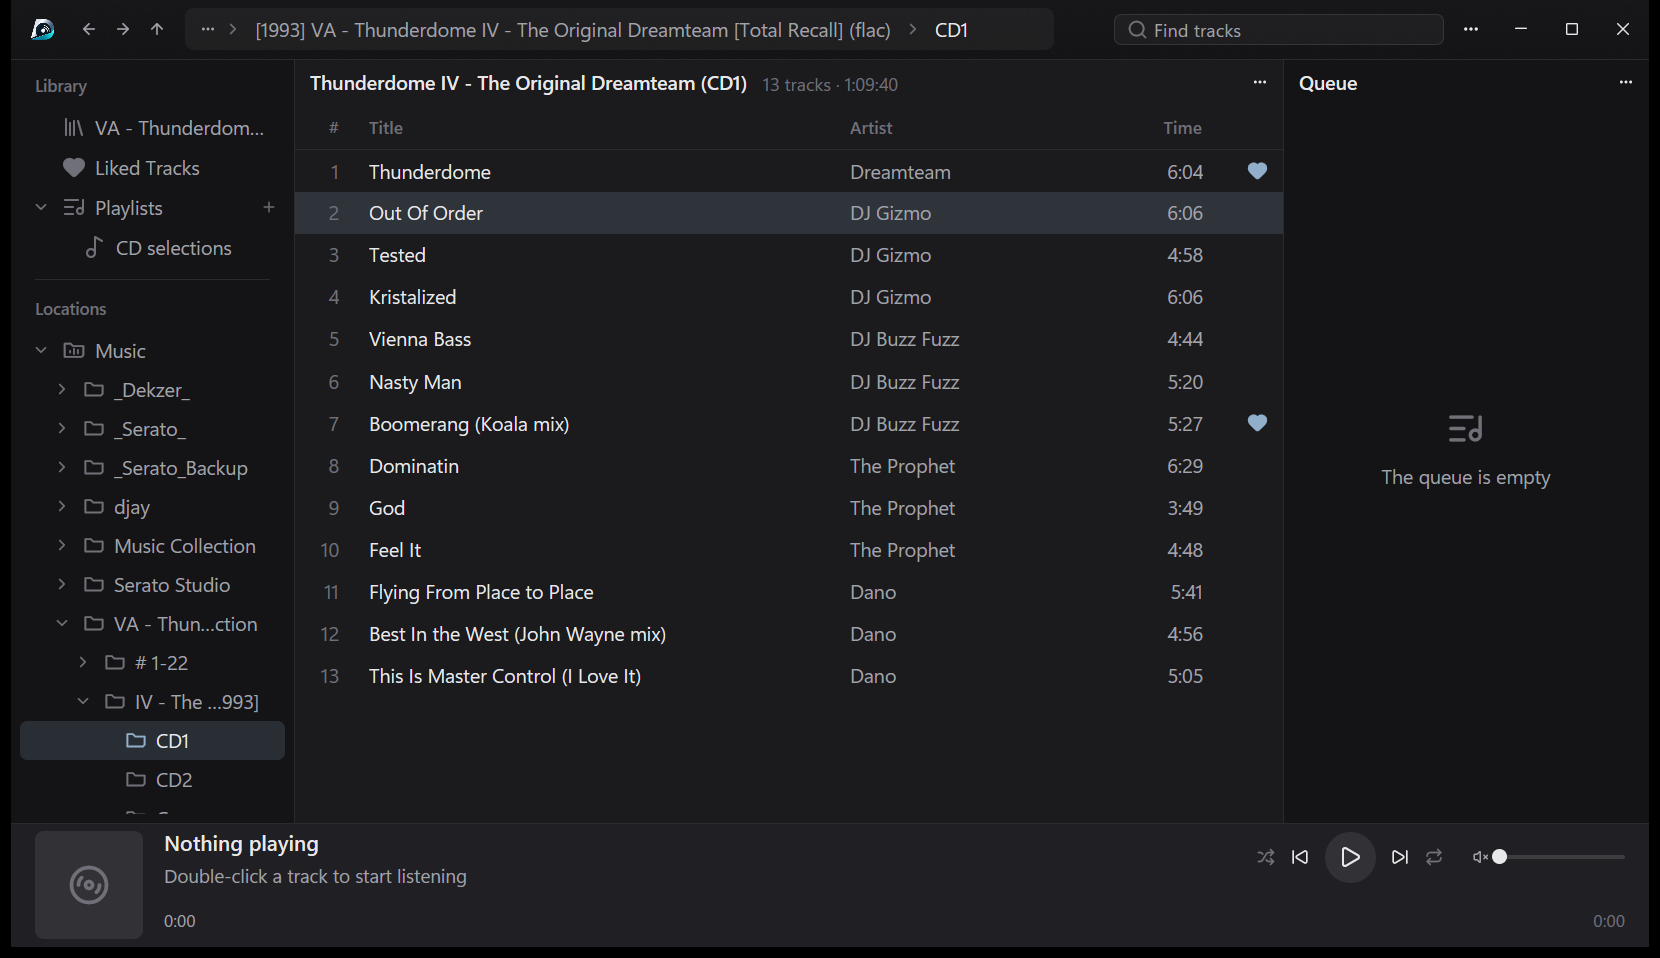
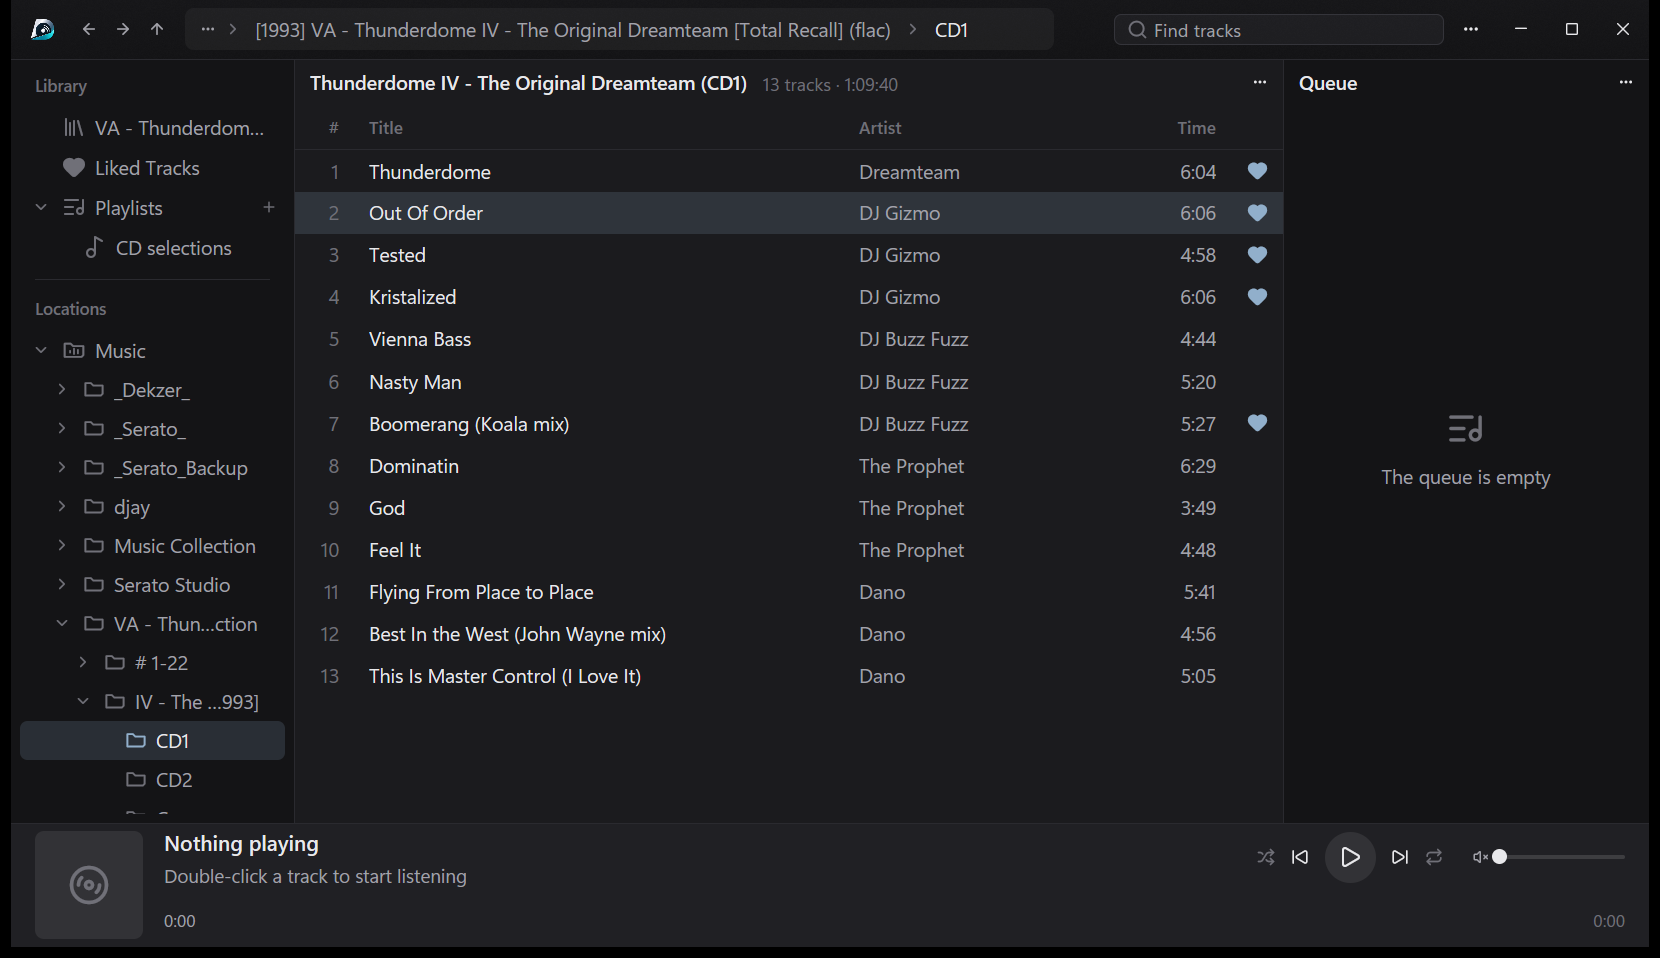
fix(table): give the final metadata divider one resize target

diff --git a/src/table.rs b/src/table.rs
@@ -125,7 +125,7 @@ impl Field {
         match self {
             Self::Cover => self.width(),
             Self::Number => 36.,
-            Self::Favorite => 32.,
+            Self::Favorite => self.width(),
             Self::Title => 142.,
             Self::Year | Self::Disc => 48.,
             Self::Rating => 96.,
@@ -136,7 +136,7 @@ impl Field {
     fn max_width(self) -> f32 {
         match self {
             Self::Cover => LARGE_THUMBNAIL + 2. * COVER_X,
-            Self::Favorite => 64.,
+            Self::Favorite => self.width(),
             _ => 1200.,
         }
     }
@@ -433,6 +433,7 @@ struct Resize {
     x: Pixels,
     width: f32,
     grow_left: bool,
+    follow_end: bool,
 }
 
 pub struct MusicTable {
@@ -749,6 +750,12 @@ impl MusicTable {
         if column.width != width {
             column.width = width;
             table.refresh(cx);
+            if r.follow_end {
+                let d = table.delegate();
+                let total: f32 = d.layout().widths(d.viewport).iter().sum();
+                let x = px((d.viewport - total).min(0.));
+                table.horizontal_scroll_handle.set_offset(point(x, px(0.)));
+            }
             cx.notify();
         }
     }
@@ -1308,7 +1315,7 @@ impl MusicTable {
                     d.right(pad).border_r_1()
                 }
             })
-            .border_color(if active {
+            .border_color(if active && ix == host {
                 m.text_faint
             } else {
                 transparent_black()
@@ -1317,12 +1324,23 @@ impl MusicTable {
             .on_mouse_down(
                 MouseButton::Left,
                 cx.listener(move |t, e: &MouseDownEvent, _, _| {
+                    let d = t.delegate();
+                    let widths = d.layout().widths(d.viewport);
+                    let scrolling = d.layout().scrolling(&widths, d.viewport);
+                    let total: f32 = widths.iter().sum();
+                    let end = (d.viewport - total).min(0.);
+                    // While dragging at the right end, keep the last metadata
+                    // cell readable as the center viewport changes width.
+                    let follow_end = scrolling.end < widths.len()
+                        && ix + 1 >= scrolling.end
+                        && (f32::from(t.horizontal_scroll_handle.offset().x) - end).abs() <= 1.;
                     let width = t.col_width(ix).map(f32::from);
                     t.delegate_mut().resizing = width.map(|width| Resize {
                         ix,
                         x: e.position.x,
                         width,
                         grow_left,
+                        follow_end,
                     });
                 }),
             )
@@ -1453,18 +1471,32 @@ impl TableDelegate for MusicTable {
         let widths = layout.widths(self.viewport);
         let scrolling = layout.scrolling(&widths, self.viewport);
         let right_fixed = col_ix >= scrolling.end;
-        let leading = if right_fixed {
-            Some(self.render_edge(col_ix, col_ix, true, true, cx))
-        } else {
+        // Each physical boundary has one owner. Favorite has no resize
+        // handle. Its blank header can extend the preceding metadata grip
+        // only when both cells actually meet. A gap or a scrolled-away cell
+        // must never leave a second handle floating at the pinned edge.
+        let grip =
+            |owner: usize, leading: bool, grow_left: bool, cx: &mut Context<TableState<Self>>| {
+                (layout.columns[owner].field != Field::Favorite)
+                    .then(|| self.render_edge(owner, col_ix, leading, grow_left, cx))
+            };
+        let leading = if right_fixed && field != Field::Favorite {
+            grip(col_ix, true, true, cx)
+        } else if !right_fixed
+            || (col_ix == scrolling.end && widths.iter().sum::<f32>() == self.viewport)
+        {
             col_ix
                 .checked_sub(1)
-                .map(|ix| self.render_edge(ix, col_ix, true, false, cx))
+                .and_then(|ix| grip(ix, true, false, cx))
+        } else {
+            None
         };
         let trailing = if right_fixed {
             (col_ix + 1 < widths.len())
-                .then(|| self.render_edge(col_ix + 1, col_ix, false, true, cx))
+                .then(|| col_ix + 1)
+                .and_then(|ix| grip(ix, false, true, cx))
         } else {
-            Some(self.render_edge(col_ix, col_ix, false, false, cx))
+            grip(col_ix, false, false, cx)
         };
         h_flex()
             .id(("sort", col_ix))
@@ -1576,6 +1608,14 @@ impl TableDelegate for MusicTable {
         let field = self.layout().columns[col].field;
         (!matches!(field, Field::Cover | Field::Favorite))
             .then(|| field.value(t, self.mark(row, cx)).into())
+    }
+    fn render_last_empty_col(
+        &mut self,
+        _: &mut Window,
+        _: &mut Context<TableState<Self>>,
+    ) -> impl IntoElement {
+        // The scrollable header and body end at the last real column.
+        div()
     }
     fn render_td(
         &mut self,

diff --git a/src/table/layout.rs b/src/table/layout.rs
@@ -146,7 +146,7 @@ impl Layout {
     /// the pane grows. Nothing here is written back to the profile.
     pub(super) fn scrolling(&self, widths: &[f32], viewport: f32) -> std::ops::Range<usize> {
         let mut range = 0..self.columns.len();
-        let available = (viewport - 8.).max(0.);
+        let available = viewport.max(0.);
         let mut budget = if viewport <= 0. || widths.iter().sum::<f32>() <= available {
             f32::INFINITY
         } else {
@@ -182,30 +182,29 @@ impl Layout {
         if viewport <= 0. {
             return widths;
         }
-        let budget = (viewport - 8.).max(0.);
+        let budget = viewport;
         let total: f32 = widths.iter().sum();
         if self.adaptive && total < budget {
             // Give spare space to unmodified text columns. Album editions and
             // artist names benefit from room on a wide display too.
-            let weights: Vec<f32> = self
-                .columns
-                .iter()
-                .map(|c| {
-                    if c.width != c.field.width() {
-                        return 0.;
-                    }
-                    match c.field {
-                        Field::Title => 2.,
-                        Field::Artist | Field::Album => 1.,
-                        _ => 0.,
-                    }
+            // Distribute whole pixels in field order. Moving a column to
+            // another pin group cannot change which field gets the remainder.
+            let eligible: Vec<_> = [(Field::Title, 2.), (Field::Artist, 1.), (Field::Album, 1.)]
+                .into_iter()
+                .filter_map(|(field, weight)| {
+                    self.columns
+                        .iter()
+                        .position(|c| c.field == field && c.width == field.width())
+                        .map(|i| (i, weight))
                 })
                 .collect();
-            let weight: f32 = weights.iter().sum();
-            if weight > 0. {
-                for (w, share) in widths.iter_mut().zip(weights) {
-                    *w += ((budget - total) * share / weight).floor();
-                }
+            let mut remaining_weight: f32 = eligible.iter().map(|(_, w)| w).sum();
+            let mut remaining = budget - total;
+            for (i, weight) in eligible {
+                let extra = (remaining * weight / remaining_weight).round();
+                widths[i] += extra;
+                remaining -= extra;
+                remaining_weight -= weight;
             }
         }
         widths
@@ -270,7 +269,7 @@ impl Layouts {
                     return false;
                 }
                 seen.push(c.field);
-                if !(24. ..=c.field.max_width()).contains(&c.width) {
+                if c.field == Field::Favorite || !(24. ..=c.field.max_width()).contains(&c.width) {
                     c.width = c.field.width();
                 }
                 true
@@ -316,11 +315,12 @@ impl Layouts {
                 continue;
             };
             if !saved.iter().any(|s| s.field == field) {
-                let width = if (24. ..=1200.).contains(&c.width) {
-                    c.width
-                } else {
-                    field.width()
-                };
+                let width =
+                    if field != Field::Favorite && (24. ..=field.max_width()).contains(&c.width) {
+                        c.width
+                    } else {
+                        field.width()
+                    };
                 saved.push(LayoutColumn {
                     width,
                     ..LayoutColumn::new(field)
@@ -564,6 +564,37 @@ mod tests {
             );
         }
     }
+    #[test]
+    fn compact_action_and_last_metadata_share_one_boundary() {
+        use Field::*;
+        let mut layouts = Layouts::default();
+        layouts.disc.columns.last_mut().unwrap().width = 62.;
+        let layouts = layouts.validate();
+        assert_eq!(layouts.disc.columns.last().unwrap().width, 34.);
+        for viewport in [567., 658., 659., 660., 991.] {
+            let widths = layouts.disc.widths(viewport);
+            assert_eq!(widths.iter().sum::<f32>(), viewport);
+            assert_eq!(widths[3], Length.width());
+            assert_eq!(widths[4], Favorite.width());
+        }
+    }
+
+    #[test]
+    fn pinning_keeps_each_adaptive_columns_displayed_width() {
+        let mut layout = Layout::new(ContextKind::Mixed);
+        let original = fields(&layout);
+        let widths = layout.widths(1001.);
+        layout.set_pin(Field::Artist, Pin::Left);
+        layout.set_pin(Field::Title, Pin::Right);
+        for (column, shown) in layout.columns.iter().zip(layout.widths(1001.)) {
+            let index = original
+                .iter()
+                .position(|field| *field == column.field)
+                .unwrap();
+            assert_eq!(shown, widths[index]);
+        }
+    }
+
     #[test]
     fn resizing_one_column_moves_only_its_own_boundary() {
         // An untouched layout fills a wide table.

diff --git a/docs/persistent-library.md b/docs/persistent-library.md
@@ -5,8 +5,8 @@
 - Open a folder and choose **Add Folder to Library** from the Recordings panel, or **Add to Library** from its menu in Locations. **Add Music Folder…** is in the Library heading's menu and the empty All Music view. Choose its Library entry to browse the index. **Albums / CDs** opens the disc list. Open a disc to browse its CUE chapters. The address bar, Back and Forward follow indexed locations.
 - Ctrl+F searches the current view. Terms include `artist:`, `album:`, `format:`, `liked:yes` and `rating:4` (four or five stars). Click a heading to cycle through ascending, descending and original order.
 - Right-click a track-table header to show or hide columns, pin it to either edge, or unpin it. Drag headers to reorder columns within a pin group. CD and grouped-disc views, mixed views, and playlists save their layouts separately. **Reset Columns** restores that view's metadata and the compact Favorite column at the right. Title is always available and scrolls by default.
-- Drag a column edge to resize that column. An untouched layout shares spare room between Title, Artist and Album. **Cover** is optional and appears by default in mixed views and playlists. Widening it grows the artwork up to 96 pixels and adjusts row height. When pins crowd a narrow pane, the inner columns scroll at their saved widths. Widening the pane restores their fixed positions.
-- Click a heart in **Favorite** or a star in **Rating** to edit one track. Favorite has a blank header. Unliked hearts appear when you hover the row or focus the button. Enter or Space activates a focused heart. Alt+L toggles likes on the selection. Alt+1 through Alt+5 set its rating, and Alt+0 clears it. Liked Tracks includes saved favorites whose sources are missing.
+- Drag a metadata column edge to resize that column. An untouched layout shares spare room between Title, Artist and Album. **Cover** is optional and appears by default in mixed views and playlists. Widening it grows the artwork up to 96 pixels and adjusts row height. When pins crowd a narrow pane, the inner columns scroll at their saved widths. Widening the pane restores their fixed positions.
+- Click a heart in **Favorite** or a star in **Rating** to edit one track. Favorite has a blank header and a fixed width of 34 logical pixels. Unliked hearts appear when you hover the row or focus the button. Enter or Space activates a focused heart. Alt+L toggles likes on the selection. Alt+1 through Alt+5 set its rating, and Alt+0 clears it. Liked Tracks includes saved favorites whose sources are missing.
 - Ctrl+N creates a playlist. Drag tracks onto its sidebar entry or choose **Add to Playlist** from their context menu. Ctrl-click or Shift-click selects multiple rows. Shift+Up and Shift+Down extend a range from the keyboard.
 - Playlists preserve repeated occurrences. In the original, unfiltered order, drag entries before another entry or use Ctrl+Shift+Up and Ctrl+Shift+Down. Delete removes selected occurrences. Browsing and editing a playlist leave the playback queue independent.
 - Double-click plays from the selected track within its CD, or from the chosen occurrence in a playlist. A loose recording plays individually. **Add All to Queue** explicitly requests the whole view. A root's context menu offers rescan and removal.
